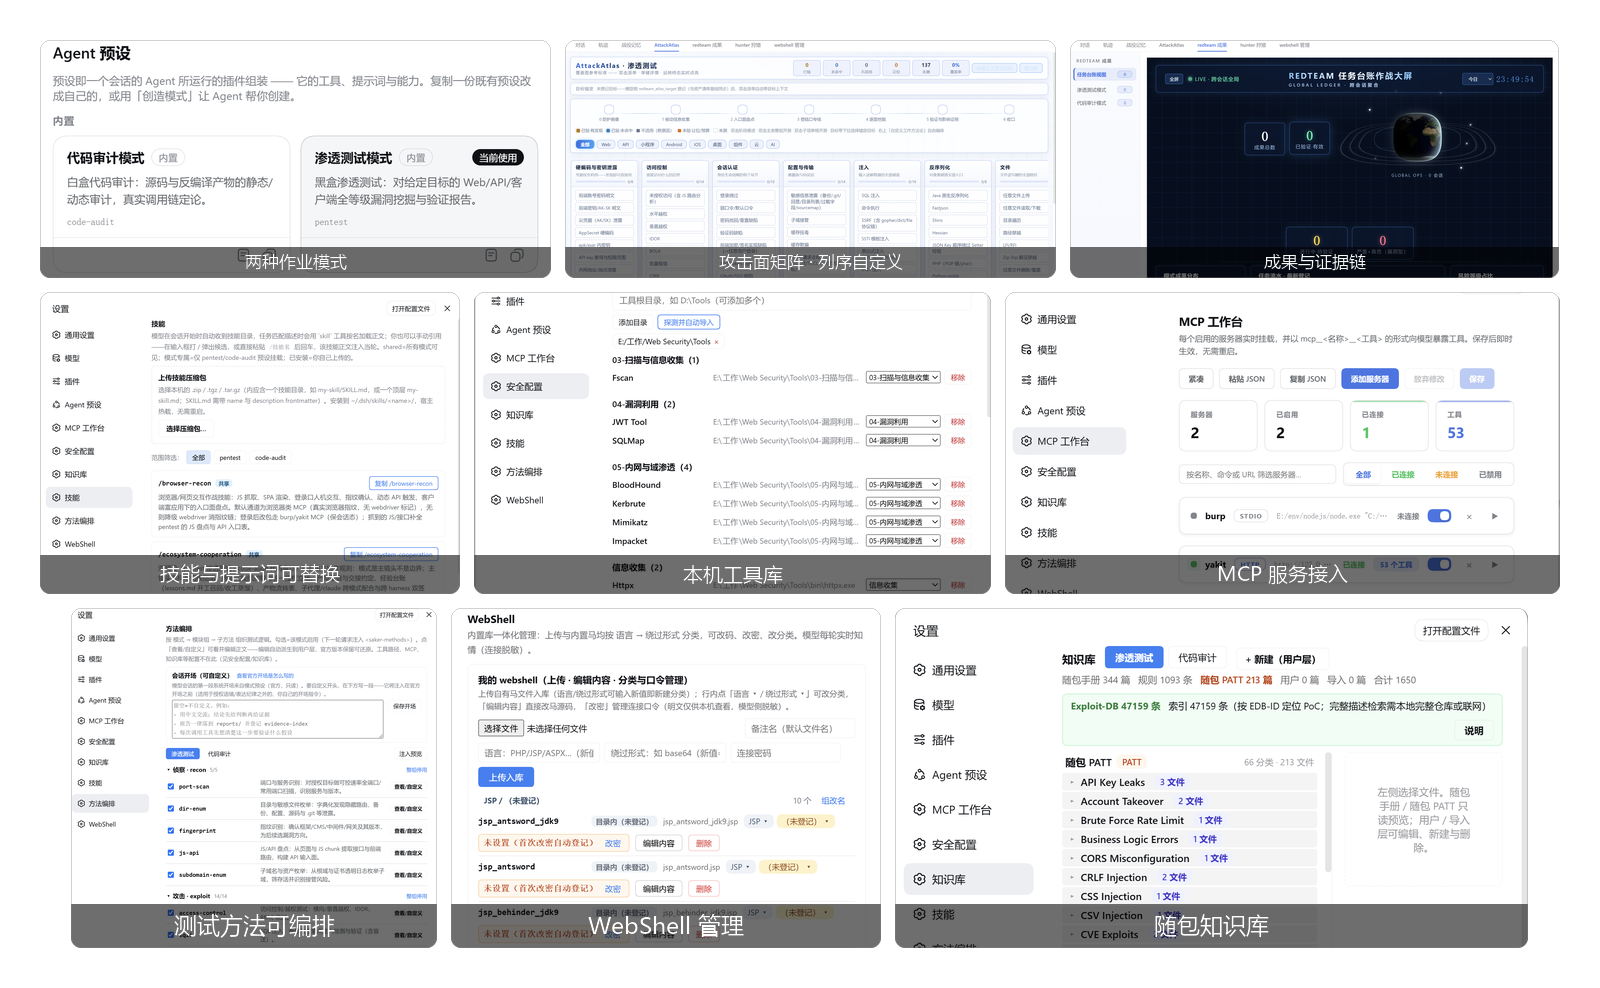
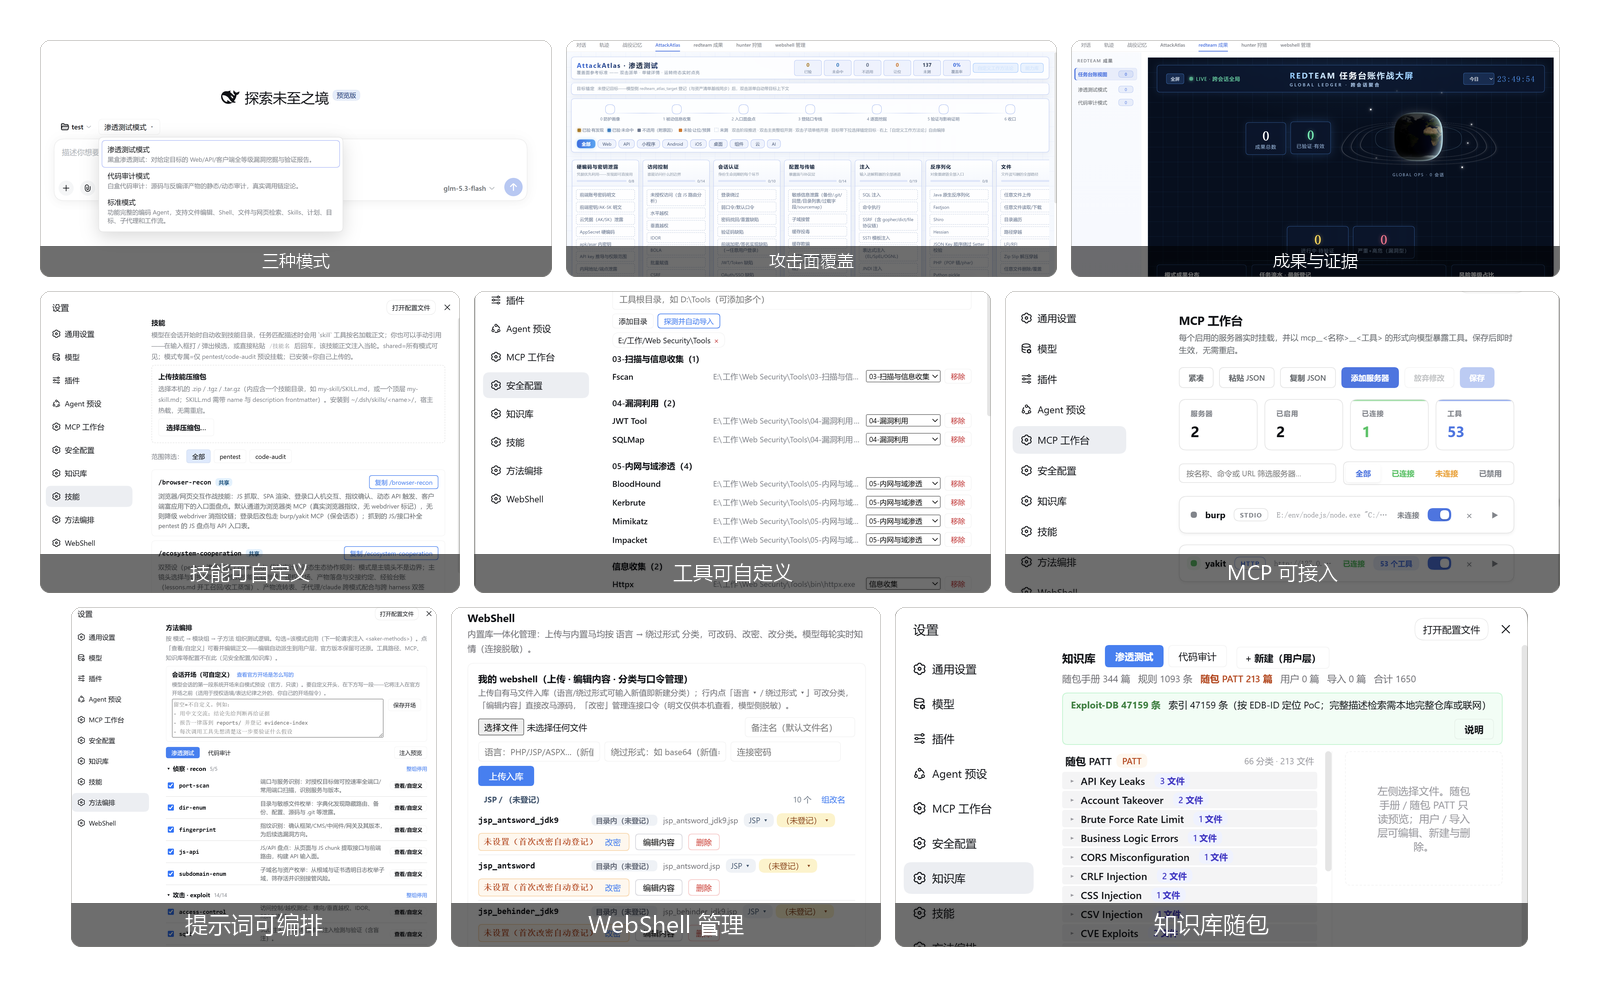
docs: 去 AI 味措辞 + 实拍三种模式截图 + 拼图标签对齐
用户二次反馈：①「可自定义就说可自定义就行了，为什么要写的让别人看不懂呢」
② 拼图标签与事实不符（模式数是 3 不是 2；提示词不该叫「测试方法」）。

措辞统一（README + docs 全文）
- 测试方法 → **提示词**（26 个内置提示词；首次出现括注「界面里叫『方法』」）
- 两种作业模式 → **三种模式**（渗透测试 / 代码审计 / 标准）
- 攻击面矩阵 → 攻击面覆盖 / 成果与证据链 → 成果与证据 / 跨会话战役记忆 → 跨会话记忆
- 本机工具库、技能与提示词可替换 → 工具可自定义、技能可自定义
- README 特性列表重排为 10 条，按「提示词 / 技能 / 工具 / MCP 均可自定义」组织
- features.md 两个小节标题同步；release-v0.2.3.md 作为历史记录不动

02-modes.png 重拍（原图是设置页内置预设，只有 2 张卡片，与「三种模式」不符）
- 用 Chrome for Testing + CDP 实拍新会话页展开的模式选择器
- 1900×620，宽高比 2.16，与同行图片接近，拼图行宽均衡
- 截图清单同步更新归属与内容描述

拼图标签（docs/images/make-collage.py）
三种模式 / 攻击面覆盖 / 成果与证据 · 技能可自定义 / 工具可自定义 / MCP 可接入 ·
提示词可编排 / WebShell 管理 / 知识库随包

验收：设置页 10 个分区在真实浏览器中全部正常加载、无「加载中」；全仓相对链接 30 条 0 缺失。

diff --git a/docs/images/make-collage.py b/docs/images/make-collage.py
@@ -20,15 +20,15 @@ RADIUS = 10
 
 # 同一行放**宽高比接近**的图，各行宽度才均衡；混着放会出现一行里一窄两宽。
 ROWS = [
-    [("02-modes.png", "两种作业模式"),
-     ("03-attack-atlas.png", "攻击面矩阵 · 列序自定义"),
-     ("09-findings.png", "成果与证据链")],
-    [("06-skills.png", "技能与提示词可替换"),
-     ("07-tools1.png", "本机工具库"),
-     ("08-tools2.png", "MCP 服务接入")],
-    [("04-method-stack1.png", "测试方法可编排"),
+    [("02-modes.png", "三种模式"),
+     ("03-attack-atlas.png", "攻击面覆盖"),
+     ("09-findings.png", "成果与证据")],
+    [("06-skills.png", "技能可自定义"),
+     ("07-tools1.png", "工具可自定义"),
+     ("08-tools2.png", "MCP 可接入")],
+    [("04-method-stack1.png", "提示词可编排"),
      ("11-webshell1.png", "WebShell 管理"),
-     ("13-knowledge1.png", "随包知识库")],
+     ("13-knowledge1.png", "知识库随包")],
 ]
 
 CONTENT_W = CANVAS_W - 2 * PAD

diff --git a/docs/features.md b/docs/features.md
@@ -7,7 +7,7 @@
 
 ---
 
-## 两种模式，各自有完整作业路径
+## 三种模式，各有完整流程
 
 | | 渗透测试 | 代码审计 |
 |---|---|---|
@@ -33,11 +33,11 @@ AttackAtlas按目标记录每个攻击面的状态。四种终态会点亮：已
 
 ![AttackAtlas按目标记录安全测试覆盖](images/03-attack-atlas.png)
 
-## 测试方法可以自己编排
+## 提示词可以自己编排
 
-这里有两层，一层管「方法本身怎么写」，一层管「这一轮用哪些」。
+这里有两层，一层管「提示词本身怎么写」，一层管「这一轮用哪些」。
 
-**方法内容（`dsh-method-stack`）**：内置26个方法，分五类——侦查5（端口扫描、目录枚举、指纹识别等）、利用14（SQL注入、XSS、SSRF、文件上传、命令注入、JWT、反序列化等）、内网3（凭据关系、横向入口、网段测绘）、证据2、报告2。每个方法就是一个目录，`manifest.yml` 写元信息、`prompt.md` 写正文。输入框上方的「方法 ▾」按钮直接勾选本轮启用哪些，变更下一轮生效；「设置 → 方法编排」可以克隆、改正文、存组合，用户层 `~/.dsh/method-stack/methods/` 同名目录直接覆盖官方内容，不用改包。
+**提示词内容（`dsh-method-stack`，界面里叫「方法」）**：内置 26 个提示词，分五类——侦查5（端口扫描、目录枚举、指纹识别等）、利用14（SQL注入、XSS、SSRF、文件上传、命令注入、JWT、反序列化等）、内网3（凭据关系、横向入口、网段测绘）、证据2、报告2。每个提示词就是一个目录，`manifest.yml` 写元信息、`prompt.md` 写正文。输入框上方的「方法 ▾」按钮直接勾选本轮启用哪些，变更下一轮生效；「设置 → 方法编排」可以克隆、改正文、存组合，用户层 `~/.dsh/method-stack/methods/` 同名目录直接覆盖官方内容，不用改包。
 
 ![AttackAtlas自定义方法论编排画布1](images/04-method-stack1.png)
 

diff --git a/docs/images/README.md b/docs/images/README.md
@@ -35,10 +35,10 @@ python docs/images/make-collage.py
 |---|---|---|
 | `00-hero-collage.png` | —（README 首屏） | 9 张功能截图拼接的封面 |
 | `01-saker-overview.png` | 开篇 | 工作台总览：会话列表 + 新会话输入区 |
-| `02-modes.png` | 两种模式，各自有完整作业路径 | Agent 预设页，pentest / code-audit 两个模式 |
+| `02-modes.png` | 三种模式，各有完整流程 | 新会话页展开模式选择器：渗透测试 / 代码审计 / 标准 |
 | `03-attack-atlas.png` | 攻击面不再靠记忆 | AttackAtlas 矩阵：阶段带、终态图例、攻击面分类 |
-| `04-method-stack1.png` | 测试方法可以自己编排 | 设置 → 方法编排：会话开场自定义 + 方法勾选 |
-| `05-method-stack2.png` | 测试方法可以自己编排 | 会话侧栏方法组合面板：26 方法按五组勾选 |
+| `04-method-stack1.png` | 提示词可以自己编排 | 设置 → 方法编排：会话开场自定义 + 方法勾选 |
+| `05-method-stack2.png` | 提示词可以自己编排 | 会话侧栏方法组合面板：26 方法按五组勾选 |
 | `06-skills.png` | 提示词、persona 和技能都可以换 | 设置 → 技能：上传安装 + 技能列表 + 引用串复制 |
 | `07-tools1.png` | 工具归工具，判断归判断 | 设置 → 安全配置：工具根目录探测 + 分类导入 |
 | `08-tools2.png` | 工具归工具，判断归判断 | MCP 工作台：服务列表、连接状态、工具计数 |

diff --git a/docs/plugin-list.md b/docs/plugin-list.md
@@ -14,7 +14,7 @@ Saker当前包含21个独立插件。多数用户不需要逐个理解；`pack-a
 | 界面与配置 | `dsh-mcp-studio` | 1.0.10 | 管理、诊断和预览MCP服务及工具 |
 | 界面与配置 | `dsh-knowledge-hub` | 0.1.14 | 知识库管理：随包PATT与手册、用户积累、Git/本机文件夹导入；Exploit-DB字段化索引与一键下载；按主题分类浏览与检索 |
 | 界面与配置 | `dsh-skill-browse` | 1.1.4 | 设置页「技能」：列出共享 / 模式专属 / 已安装技能；上传zip/tgz安装并热载、可卸载用户层技能；一键复制宿主引用串 |
-| 界面与配置 | `dsh-method-stack` | 0.1.8 | 提示词模块化：26个内置测试方法可勾选、克隆、改正文、存组合；输入框「方法 ▾」直接切换 |
+| 界面与配置 | `dsh-method-stack` | 0.1.8 | 提示词模块化：26 个内置提示词可勾选、克隆、改正文、存组合；输入框「方法 ▾」直接切换 |
 | 工具 | `dsh-scanner-tools` | 1.0.1 | 将nuclei、httpx、ffuf封装为模型工具 |
 | 工具 | `dsh-semgrep-audit` | 1.0.1 | 使用本地Semgrep和随包规则集进行代码扫描 |
 | 工具 | `dsh-hunter` | 1.0.0 | 聚合FOFA、Hunter、Quake资产检索与分级实测 |

diff --git a/docs/architecture.md b/docs/architecture.md
@@ -27,7 +27,7 @@ Saker建在 [DeepSeek Harness](https://github.com/deepseek-ai/deepseek-harness) 
 
 | 你想改的东西 | 改哪里 |
 |---|---|
-| 测试方法的组合与顺序 | 输入框「方法 ▾」直接切换，或「设置 → 方法编排」编辑 |
+| 提示词的组合与顺序 | 输入框「方法 ▾」直接切换，或「设置 → 方法编排」编辑 |
 | 工具清单与分类 | 设置 → 安全配置，增删工具、自己划分类别 |
 | 接哪个MCP服务 | 设置 → MCP工作台，stdio / streamable HTTP都行 |
 | 模式的性格和底线 | 模式包的persona段，或整套换掉 `dsh-saker` |

diff --git a/docs/development.md b/docs/development.md
@@ -11,7 +11,7 @@ Saker/
 │   ├── code-audit/               # 代码审计模式：persona、playbook、规则集
 │   └── shared/refs/              # 随包 PayloadsAllTheThings 快照（MIT）
 ├── shared/
-│   ├── skills/                   # 两种模式共享的协作与复核技能（6 个）
+│   ├── skills/                   # 两个专业模式共享的协作与复核技能（6 个）
 │   ├── refs/                     # 共享参考资料
 │   └── scripts/                  # 工具面辅助脚本
 ├── plugins/                      # 21 个独立功能插件
